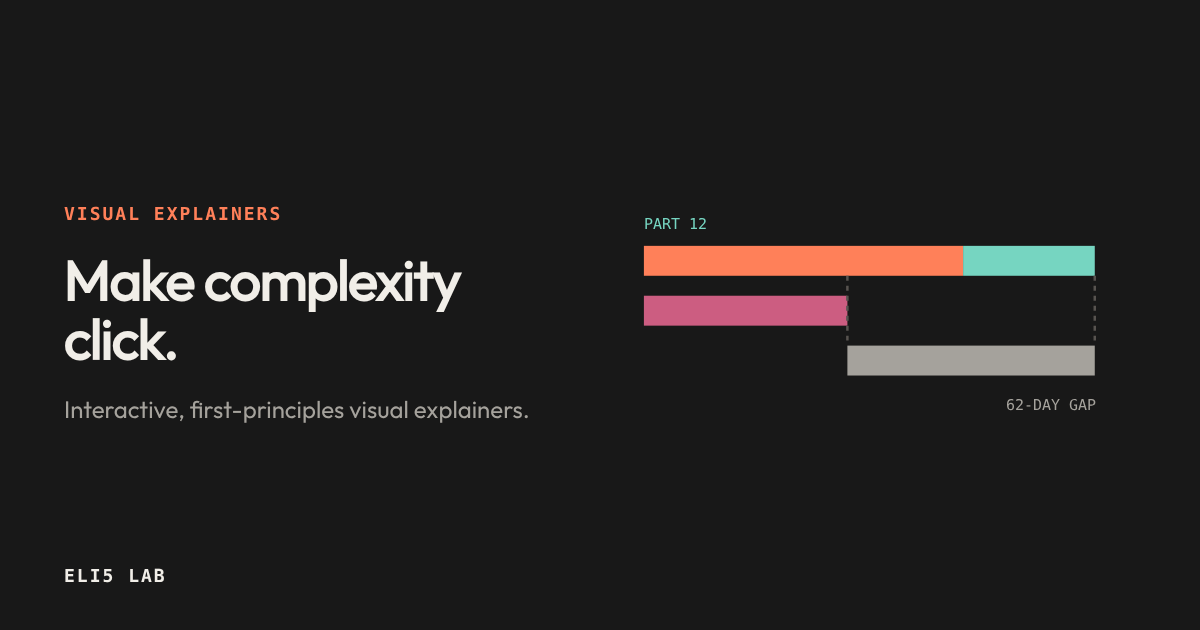
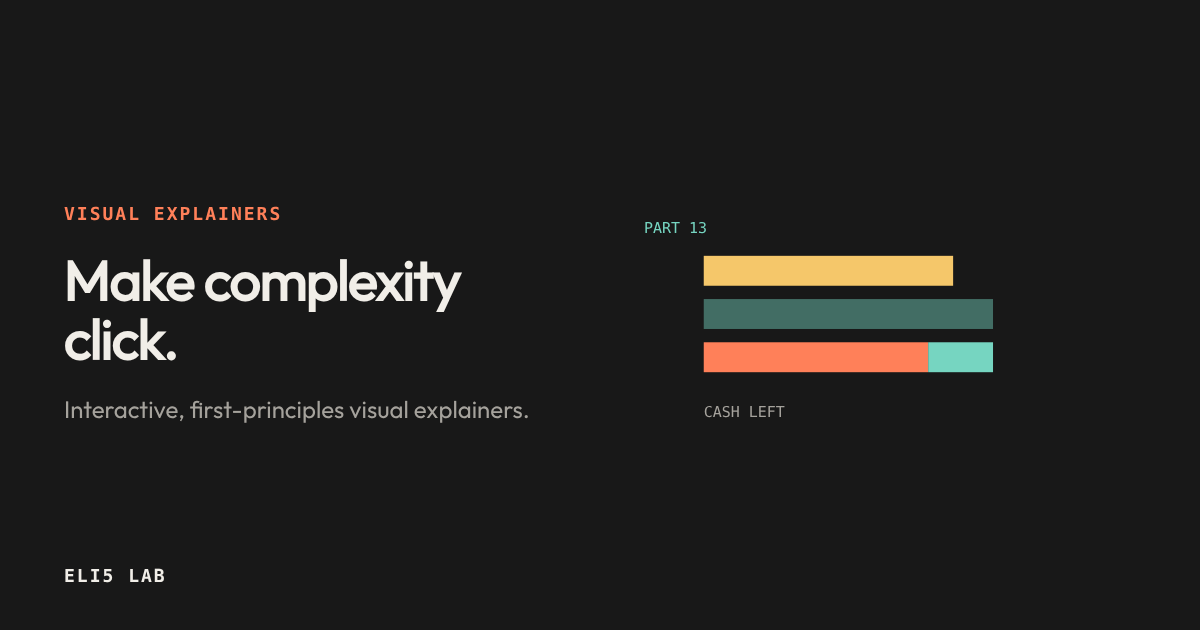
content: publish ELI5 "Free cash flow and earnings quality"

Changed region(s): [[0.5242, 0.3317, 0.925, 0.6032], [0.8325, 0.6333, 0.925, 0.6635], [0.5858, 0.6333, 0.6475, 0.6635]]

diff --git a/published.js b/published.js
@@ -1,5 +1,29 @@
 window.PUBLISHED = [
   {
+    "id": "free-cash-flow-eli5",
+    "title": "Free cash flow and earnings quality",
+    "category": "Monetary Architecture",
+    "minutes": 16,
+    "summary": "Part 13: the cash left after capex, and why profit without cash is a warning",
+    "bullets": [
+      "FCF = CFO minus capex; split maintenance from growth capex",
+      "CFO/PAT over several years tests earnings quality",
+      "TCPL's FCF, lease payments and where the cash went"
+    ],
+    "kind": "flow",
+    "color": "#ff8059",
+    "nodes": [
+      "CFO",
+      "CAPEX",
+      "FCF"
+    ],
+    "file": "explainers/free-cash-flow-eli5.html",
+    "date": "2026-11-09",
+    "subcategory": "Fundamental analysis, from scratch",
+    "card": "<svg viewBox=\"0 0 320 155\" role=\"img\" aria-label=\"Three bars on one scale: profit in gold, cash from operations in pale teal, and below it the same cash split into a long coral capex piece and a short solid teal piece of free cash flow\"><rect x=\"60\" y=\"42\" width=\"150\" height=\"18\" fill=\"#f5c76a\"/><rect x=\"60\" y=\"68\" width=\"174\" height=\"18\" fill=\"#76d5c1\" fill-opacity=\"0.45\"/><rect x=\"60\" y=\"94\" width=\"135\" height=\"18\" fill=\"#ff8059\"/><rect x=\"195\" y=\"94\" width=\"39\" height=\"18\" fill=\"#76d5c1\"/><g font-family=\"monospace\" font-size=\"9\"><text x=\"24\" y=\"28\" fill=\"#76d5c1\">PART 13</text><text x=\"60\" y=\"139\" fill=\"#a5a29c\">CASH LEFT</text></g></svg>",
+    "part": 13
+  },
+  {
     "id": "working-capital-cycle-eli5",
     "title": "Working capital and the cash cycle",
     "category": "Monetary Architecture",

diff --git a/explainers/free-cash-flow-eli5.html b/explainers/free-cash-flow-eli5.html
@@ -58,6 +58,20 @@
     .lab-chart svg+svg{margin-top:18px}
     .eq b{color:var(--fg)}
   </style>
+<!-- link-preview:start -->
+<meta name="description" content="Part 13: the cash left after capex, and why profit without cash is a warning">
+<link rel="canonical" href="https://eli5-seven-mu.vercel.app/explainers/free-cash-flow-eli5">
+<meta property="og:type" content="article">
+<meta property="og:site_name" content="ELI5 Lab">
+<meta property="og:title" content="Free cash flow and earnings quality">
+<meta property="og:description" content="Part 13: the cash left after capex, and why profit without cash is a warning">
+<meta property="og:url" content="https://eli5-seven-mu.vercel.app/explainers/free-cash-flow-eli5">
+<meta property="og:image" content="https://eli5-seven-mu.vercel.app/assets/og/free-cash-flow-eli5.png?v=a5fb0d5b">
+<meta property="og:image:width" content="1200"><meta property="og:image:height" content="630">
+<meta property="og:image:alt" content="Free cash flow and earnings quality">
+<meta property="article:published_time" content="2026-11-09">
+<meta name="twitter:card" content="summary_large_image">
+<!-- link-preview:end -->
 </head>
 <body data-series-id="free-cash-flow-eli5">
   <div class="eli5-progress-track"><div class="eli5-progress-fill" id="readingProgress"></div></div>
